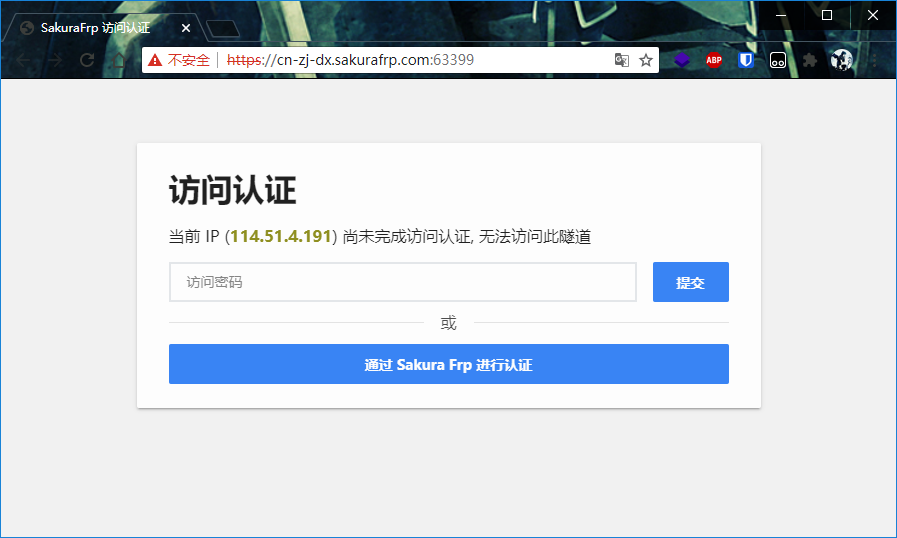
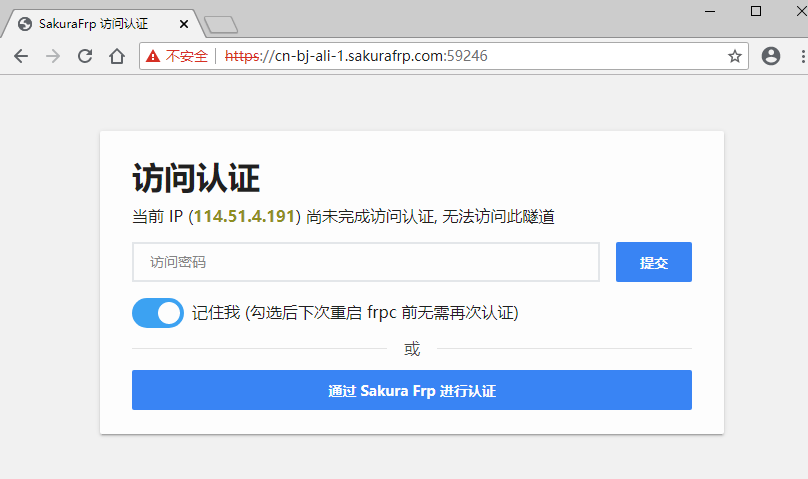
bestpractice/security: Update frpc auth document

diff --git a/bestpractice/security.md b/bestpractice/security.md
@@ -15,9 +15,9 @@
 
 ### frpc 访问认证
 
-!> 该功能处于测试阶段, 目前仅 v0.34.2-sakura-3.2-alpha-1 支持此功能  
-该功能处于测试阶段, 目前仅 v0.34.2-sakura-3.2-alpha-1 支持此功能  
-该功能处于测试阶段, 目前仅 v0.34.2-sakura-3.2-alpha-1 支持此功能
+!> 该功能处于测试阶段, 请使用 frpc v0.34.2-sakura-3.2-alpha-2 及以上版本  
+该功能处于测试阶段, 请使用 frpc v0.34.2-sakura-3.2-alpha-2 及以上版本  
+该功能处于测试阶段, 请使用 frpc v0.34.2-sakura-3.2-alpha-2 及以上版本
 
 启用访问认证后，未经授权的 IP 将无法访问您的隧道，这可以有效回避密码被爆破、遭到 0day 攻击等安全风险
 
@@ -41,20 +41,26 @@
 
 启用访问认证功能后，每个 IP 在连接隧道前必须先完成认证
 
-假设您配置了一个 **远程桌面(RDP)** 隧道，原来的连接方式是 `cn-zj-dx.sakurafrp.com:63399`，则一个完整的连接流程如下:
+假设您配置了一个 **远程桌面(RDP)** 隧道，原来的连接方式是 `cn-bj-ali-1.sakurafrp.com:59246`，则一个完整的连接流程如下:
 
-1. 在连接远程桌面前，通过浏览器访问 `https://cn-zj-dx.sakurafrp.com:63399`，此时应该会看到访问认证界面
+1. 在连接远程桌面前，通过浏览器访问 `https://cn-bj-ali-1.sakurafrp.com:59246`，此时应该会看到访问认证界面
 
-   ?> 浏览器提示证书错误是正常现象，您可以通过配置 frpc 路径下的 `authpanel.<crt|key>` 并使用恰当的域名进行访问来解决这一问题
+   !> 注意输入完整的 **https://** 前缀，否则您可能无法访问认证界面  
+   浏览器提示证书错误是正常现象，您可以通过配置 frpc 路径下的 `authpanel.<crt|key>` 并使用恰当的域名进行访问来解决这一问题
 
    ![](_images/auth-1.png)
 1. 您可以选择以下认证方式:
-   - 直接输入之前配置的访问密码并点击 **提交**
+   - 直接输入之前配置的访问密码，按需勾选 "记住我" 并点击 **提交** 按钮  
+     认证成功后您应该会看到下图中的提示
+     ![](_images/auth-6.png)
    - 或点击 `通过 Sakura Frp 进行认证`，跳转到 Sakura Frp 面板  
-      登录隧道对应的账户后，点击 **确认授权** 来授权当前 IP 访问隧道
-      ![](_images/auth-2.png)
-1. 认证完成后，再次通过浏览器访问之前的认证界面地址，此时您可能会看到 **无法访问此网站** 的错误  
-   如果隧道没有掉线，该错误说明当前 IP 已完成认证并可以正常访问服务了
+     登录隧道对应的账户后，点击 **授权访问** 来授权当前 IP 访问隧道
+     ![](_images/auth-2.png)
+
+     ?> 注: 您也可以在 **隧道列表** 中打开此授权界面手动输入 IP 进行授权
+        ![](_images/auth-5.png)
+1. 认证完成后，再次通过浏览器访问认证界面时您可能会看到 **无法访问此网站** 的错误  
+   这是正常现象，如果隧道没有掉线则该错误说明当前 IP 已完成认证并可以正常访问服务了
    ![](_images/auth-3.png)
 1. 此时，使用 `远程桌面连接` 程序像以前一样正常连接远程桌面即可  
    ![](_images/auth-4.png)
